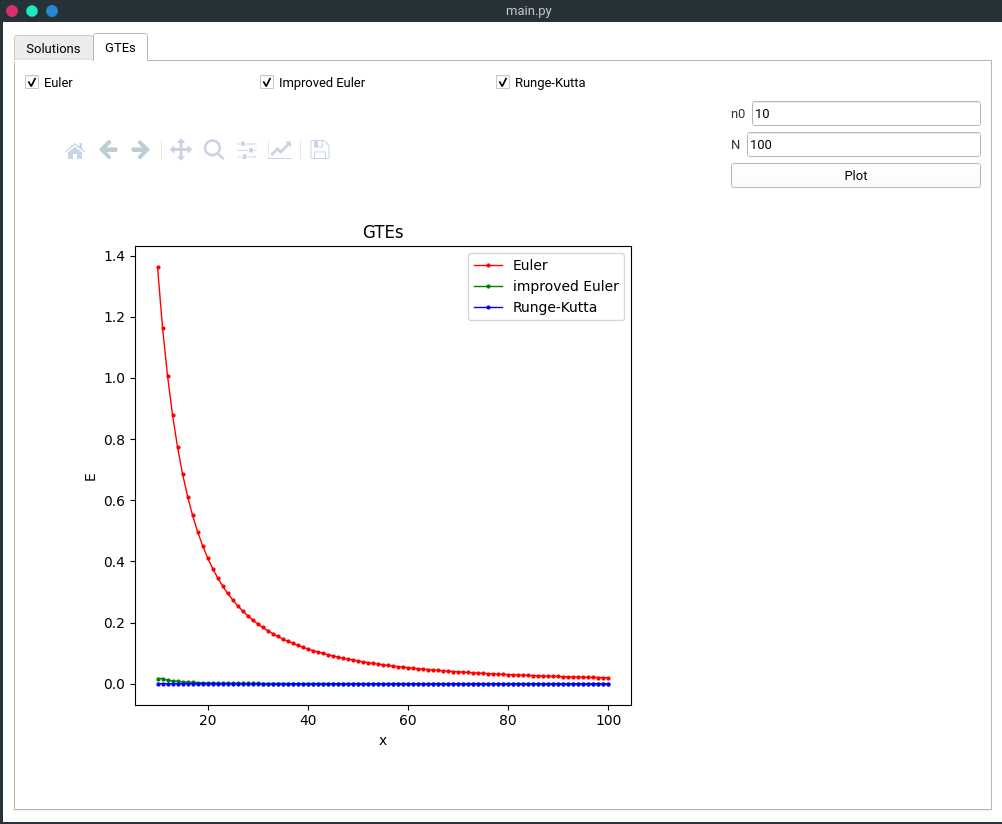
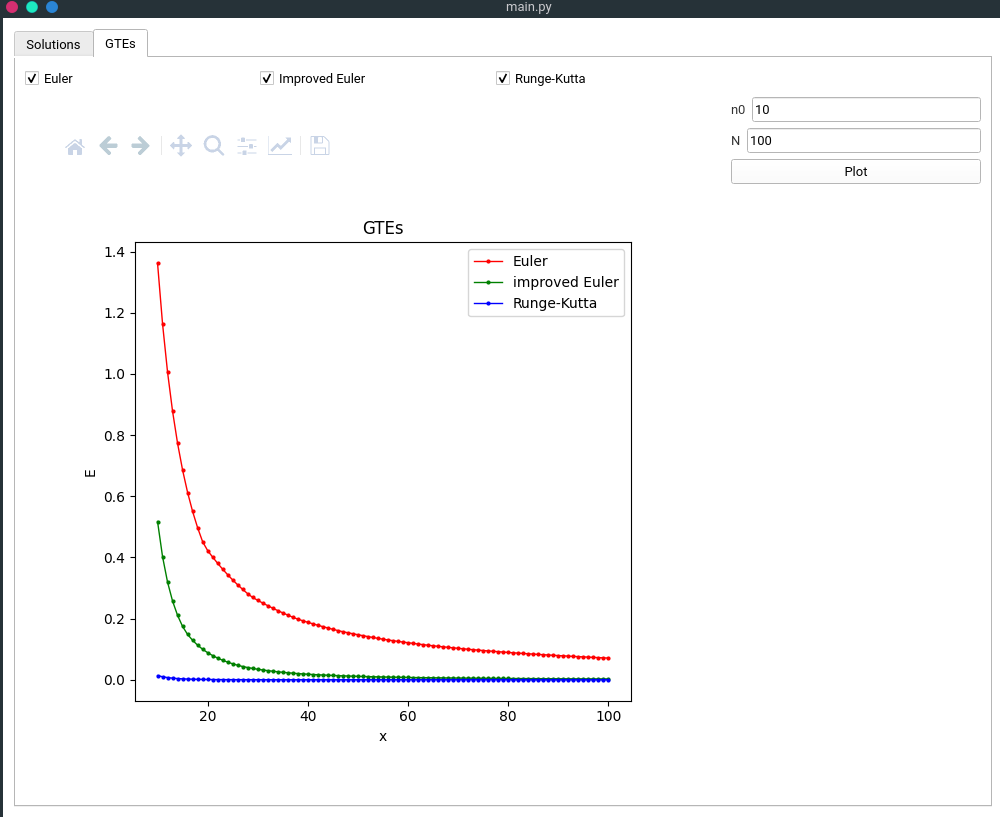
Assignment for Differential Equations course in Innopolis University

diff --git a/GTEtab.py b/GTEtab.py
@@ -74,7 +74,7 @@ class GTEtab(Tab):
                         point = [x, y]
                         x = x + h
                         y = y + h * self.methods[i](point[0], point[1], h)
-                        LTE = self.solution(x) - self.solution(point[0]) - h * self.methods[i](point[0], self.solution(point[0]), h)
+                        LTE = abs(y-self.solution(x)) #self.solution(x) - self.solution(point[0]) - h * self.methods[i](point[0], self.solution(point[0]), h)
                         if LTE > maxLTE:
                             maxLTE = LTE
                     GTEs.append(maxLTE)

diff --git a/SolutionsTab.py b/SolutionsTab.py
@@ -99,7 +99,8 @@ class SolutionsTab(Tab):
                     point = [x, y]
                     x = x + h
                     y = y + h * self.methods[i](point[0], point[1], h)
-                    LTE = self.solution(x) - self.solution(point[0]) - h * self.methods[i](point[0], self.solution(point[0]), h)
+                    LTE = abs(y-self.solution(x))
+
                     LTE_coords.append(LTE)
 
                 # N linearly spaced numbers
